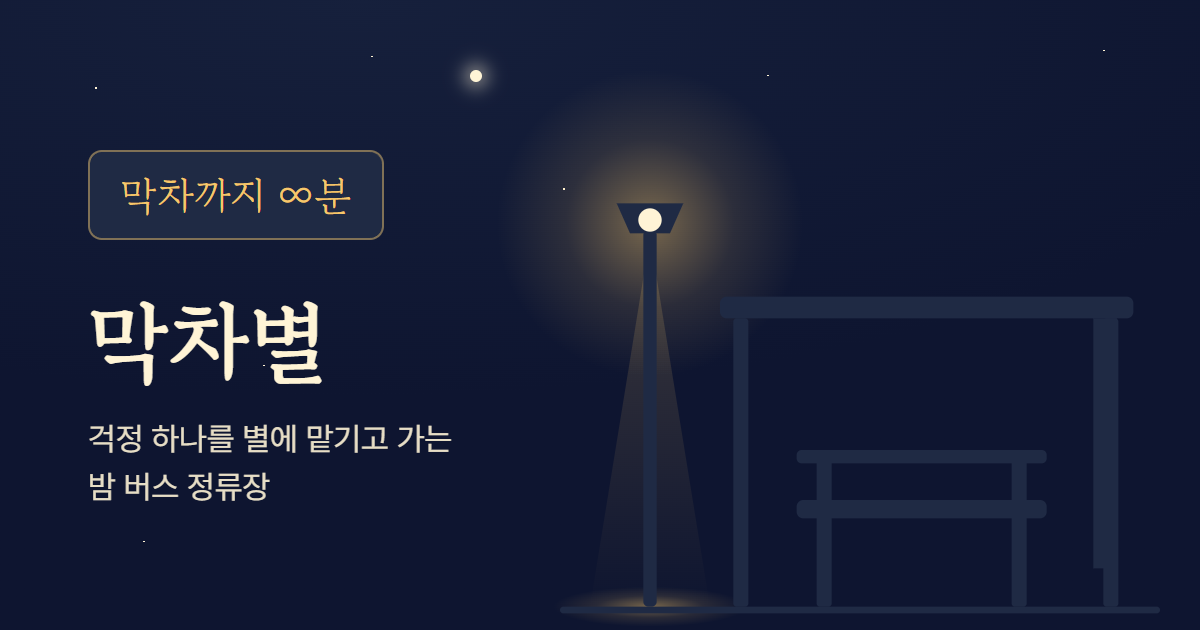
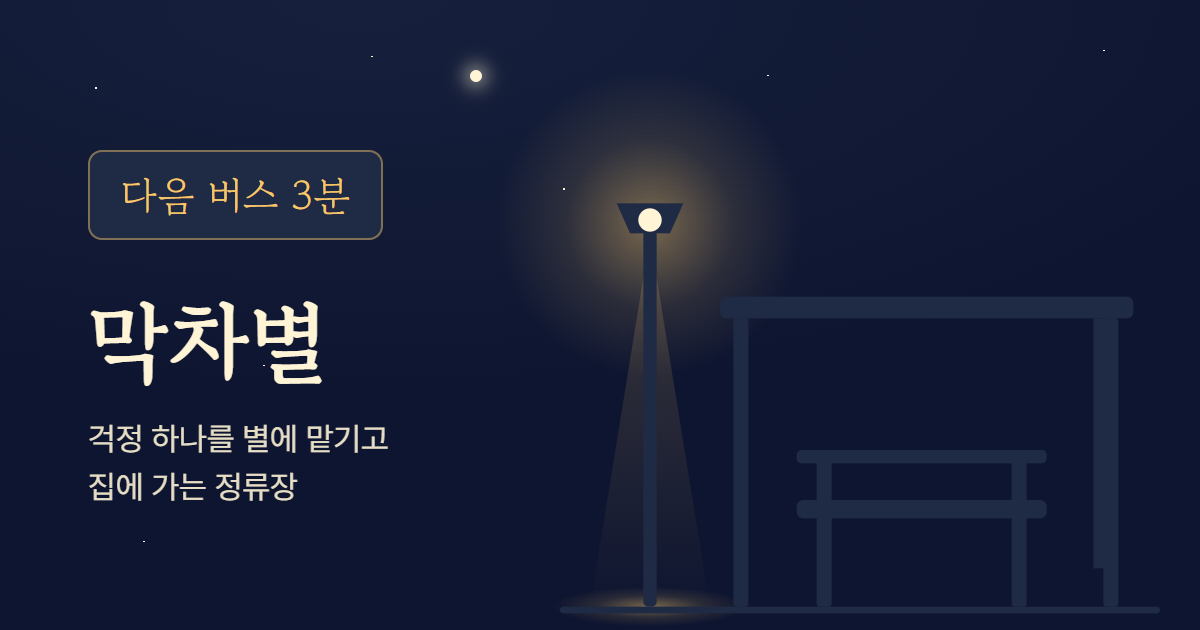
feat: 5분마다 오는 버스와 "다음 버스 N분" 전광판 (T22.4)
기기 시계로 5분마다 버스가 와서 60초 서 있다가 출발함.
전광판은 "막차까지 ∞분" 대신 남은 시간을 알려 줌(2D·3D 공통).

- lib/bus.js(테스트), useBus: 분·상태가 바뀔 때만 다시 그림
- Bus.jsx: 기본 도형 버스가 들어오고·문 열고·떠남, 가릴 땐 옅게
- OG 이미지와 대체 설명을 새 전광판 문구로

Changed region(s): [[0.0925, 0.2714, 0.2775, 0.3317], [0.0617, 0.754, 0.2467, 0.8143], [0.3392, 0.6635, 0.37, 0.7238]]

diff --git a/frontend/src/scenes/three/Bus.jsx b/frontend/src/scenes/three/Bus.jsx
@@ -1,0 +1,134 @@
+import { useEffect, useRef } from "react";
+import { useFrame, useThree } from "@react-three/fiber";
+import { MeshLambertMaterial } from "three";
+
+// 5분마다 오는 버스(T22.4). 시간표는 App(lib/bus.js)이 정해 props로 주고, 여기서는 그 시각에 맞춰
+// 들어오고·서고·떠나는 모습만 그린다. 기본 도형만. 앞은 -x(오른쪽에서 들어와 왼쪽으로 떠남)
+const STOP_X = 4.1; // 앞문이 정류장 앞(x 0.6)에 오는 자리
+const ROAD_Z = 3.15; // 연석(z 1.85) 바로 바깥 차도
+const DRIVE_MS = 6000; // 들어오는 데·떠나는 데 걸리는 시간
+const DRIVE_DIST = 45;
+const DOOR = { open: 1500, closeBefore: 2000 }; // 서고 1.5초 뒤 열리고, 떠나기 2초 전 닫힘
+
+function easeOut(t) {
+  return 1 - (1 - t) ** 3;
+}
+
+// 이 시각에 버스가 어디 있는지. 이번 도착과 바로 전 도착을 둘 다 봐야 떠나는 모습이 끊기지 않는다
+function poseAt(now, arriveAt, dwellMs, intervalMs) {
+  for (const arrival of [arriveAt, arriveAt - intervalMs]) {
+    const t = now - arrival;
+    if (t >= -DRIVE_MS && t < 0) {
+      return {
+        x: STOP_X + DRIVE_DIST * (1 - easeOut((t + DRIVE_MS) / DRIVE_MS)),
+        open: false,
+        moving: true,
+      };
+    }
+    if (t >= 0 && t < dwellMs) {
+      return { x: STOP_X, open: t > DOOR.open && t < dwellMs - DOOR.closeBefore, moving: false };
+    }
+    if (t >= dwellMs && t < dwellMs + DRIVE_MS) {
+      const k = (t - dwellMs) / DRIVE_MS;
+      return { x: STOP_X - DRIVE_DIST * k * k, open: false, moving: true };
+    }
+  }
+  return null; // 지금은 버스가 없다
+}
+
+function makeMaterials() {
+  return {
+    body: new MeshLambertMaterial({ color: "#3f7a63", flatShading: true, transparent: true }),
+    dark: new MeshLambertMaterial({ color: "#1b2233", flatShading: true, transparent: true }),
+    // 안에서 새어 나오는 따뜻한 불빛
+    window: new MeshLambertMaterial({
+      color: "#3a3326",
+      emissive: "#ffd89a",
+      emissiveIntensity: 0.4,
+      transparent: true,
+    }),
+    light: new MeshLambertMaterial({ color: "#fff4d6", emissive: "#fff4d6", transparent: true }),
+  };
+}
+
+// 재질은 버스 하나에 한 벌. 매 프레임 투명도만 바꿔 쓴다(카메라와 캐릭터 사이에 오면 옅게)
+const mats = makeMaterials();
+
+function Box({ position, size, material }) {
+  return (
+    <mesh position={position} material={material}>
+      <boxGeometry args={size} />
+    </mesh>
+  );
+}
+
+export default function Bus({ bus, me }) {
+  const root = useRef(null);
+  const door = useRef(null);
+  const invalidate = useThree((state) => state.invalidate);
+
+  // 시간표 시계: 1초에 한 번 그려서 버스가 올 때를 놓치지 않는다(움직이는 동안은 매 프레임)
+  useEffect(() => {
+    const id = setInterval(invalidate, 1000);
+    return () => clearInterval(id);
+  }, [invalidate]);
+
+  useFrame(({ camera }) => {
+    const pose = poseAt(Date.now(), bus.arriveAt, bus.dwellMs, bus.intervalMs);
+    root.current.visible = Boolean(pose);
+    if (!pose) return;
+    root.current.position.x = pose.x;
+    door.current.visible = !pose.open; // 열리면 문짝이 사라지고 안쪽 불빛이 보인다
+
+    // 카메라가 버스 너머(차도 쪽)에서 정류장 쪽 캐릭터를 보면 버스가 가린다. 그때는 윤곽만 남게
+    // 아주 옅게 하고 창문 불빛도 줄인다(화면 전체가 뿌옇게 덮이지 않게)
+    const blocking = camera.position.z > ROAD_Z - 1.2 && me.current.z < ROAD_Z - 1.2;
+    for (const m of Object.values(mats)) {
+      m.opacity = blocking ? 0.1 : 1;
+      m.depthWrite = !blocking;
+    }
+    mats.window.emissiveIntensity = blocking ? 0.1 : 0.4;
+    if (pose.moving) invalidate();
+  });
+
+  return (
+    <group ref={root} position={[STOP_X, 0, ROAD_Z]} visible={false}>
+      {/* 차체(길이 9m, 폭 2.4m), 아래 검은 띠, 지붕 */}
+      <Box position={[0, 1.7, 0]} size={[9, 2.4, 2.4]} material={mats.body} />
+      <Box position={[0, 0.45, 0]} size={[9, 0.3, 2.3]} material={mats.dark} />
+      {/* 옆 창문: 양쪽에 4장씩 따로 붙여 사이로 차체 색이 보이게. 앞유리 */}
+      {[-1.9, -0.2, 1.5, 3.2].map((x) =>
+        [-1.215, 1.215].map((z) => (
+          <Box
+            key={`${x}${z}`}
+            position={[x, 2.15, z]}
+            size={[1.4, 0.85, 0.03]}
+            material={mats.window}
+          />
+        )),
+      )}
+      <Box position={[-4.51, 2.0, 0]} size={[0.04, 1.3, 2.1]} material={mats.window} />
+      {/* 앞문(정류장 쪽 -z 면). 닫혀 있을 때만 보이는 문짝, 열리면 그 자리의 불빛 */}
+      <Box position={[-3.4, 1.35, -1.215]} size={[1.0, 2.0, 0.03]} material={mats.window} />
+      <mesh ref={door} position={[-3.4, 1.35, -1.23]} material={mats.dark}>
+        <boxGeometry args={[1.0, 2.0, 0.03]} />
+      </mesh>
+      {/* 바퀴 넷 */}
+      {[-3, 3].map((x) =>
+        [-1.2, 1.2].map((z) => (
+          <mesh
+            key={`${x}${z}`}
+            position={[x, 0.45, z]}
+            rotation-x={Math.PI / 2}
+            material={mats.dark}
+          >
+            <cylinderGeometry args={[0.45, 0.45, 0.3, 10]} />
+          </mesh>
+        )),
+      )}
+      {/* 전조등 */}
+      <Box position={[-4.52, 0.85, -0.8]} size={[0.04, 0.2, 0.35]} material={mats.light} />
+      <Box position={[-4.52, 0.85, 0.8]} size={[0.04, 0.2, 0.35]} material={mats.light} />
+    </group>
+  );
+}

diff --git a/frontend/src/scenes/three/Stage3D.jsx b/frontend/src/scenes/three/Stage3D.jsx
@@ -4,6 +4,7 @@ import StopModel from "./StopModel.jsx";
 import StarField from "./StarField.jsx";
 import Walker, { START } from "./Walker.jsx";
 import CameraRig from "./CameraRig.jsx";
+import Bus from "./Bus.jsx";
 import { fovFor } from "./fov.js";
 import "./Stage3D.css";
 
@@ -65,7 +66,7 @@ function fillTo300(stars) {
 }
 
 // 캔버스 안쪽(useFrame·useThree는 캔버스 안에서만 쓸 수 있어서 따로 둔다)
-function World({ up, stars, debug, onSample, onPerf, onLookUp }) {
+function World({ up, stars, bus, debug, onSample, onPerf, onLookUp }) {
   // 내 위치. 걷기(Walker)가 바꾸고 카메라(CameraRig)가 읽는다
   const me = useRef(START.clone());
   return (
@@ -76,6 +77,7 @@ function World({ up, stars, debug, onSample, onPerf, onLookUp }) {
       <StopModel />
       <StarField stars={stars} pitch={SKY_PITCH} />
       <Walker active={!up} me={me} />
+      <Bus bus={bus} me={me} />
       <CameraRig up={up} me={me} onLookUp={onLookUp} />
       <PerfCheck onPerf={onPerf} debug={debug} />
       {debug && <FpsProbe onSample={onSample} />}
@@ -83,7 +85,7 @@ function World({ up, stars, debug, onSample, onPerf, onLookUp }) {
   );
 }
 
-export default function Stage3D({ scene, night, phase, debug, onReady, onPerf, onLookUp }) {
+export default function Stage3D({ scene, night, phase, bus, debug, onReady, onPerf, onLookUp }) {
   const fpsText = useRef(null);
   function showFps(fps, worst) {
     fpsText.current.textContent = `${fps} fps · 가장 긴 프레임 ${worst}ms`;
@@ -109,6 +111,7 @@ export default function Stage3D({ scene, night, phase, debug, onReady, onPerf, o
           up={scene === "sky"}
           // 다른 사람 별은 2D처럼 의식이 끝난 뒤에만. 입력하는 동안 글자를 가리지 않게
           stars={phase === "done" ? stars : NO_STARS}
+          bus={bus}
           debug={debug}
           onSample={showFps}
           onPerf={onPerf}

diff --git a/frontend/src/App.jsx b/frontend/src/App.jsx
@@ -5,6 +5,8 @@ import { nightDate } from "./lib/night.js";
 import { readTapNight, writeTapNight } from "./lib/stamp.js";
 import { visitorId } from "./lib/visitor.js";
 import { useNight } from "./lib/useNight.js";
+import { useBus } from "./lib/useBus.js";
+import { DWELL_MS, INTERVAL_MS } from "./lib/bus.js";
 import { postCardTap, postCrisisEvent, postStar } from "./api/client.js";
 import { isCrisis } from "./safety/crisis.js";
 import HelpCard from "./components/HelpCard.jsx";
@@ -57,6 +59,8 @@ export default function App() {
 
   // 하늘에 올라온 동안만 폴링한다. 정류장에서는 서버를 부를 이유가 없다
   const { night, slow } = useNight(scene === "sky");
+  // 버스 시간표는 기기 시계로. 전광판(2D·3D 공통)과 3D 버스가 같은 값을 본다
+  const bus = useBus();
 
   // 문구는 기기에 남은 기록으로 바로 정한다. 서버 기록은 뒤에서 따라가고 기다리지 않는다 —
   // 잠든 서버 때문에 "삑"이 늦으면 의식이 깨진다(설계 2장 S1 로딩)
@@ -102,6 +106,7 @@ export default function App() {
             scene={scene}
             night={night}
             phase={skyPhase}
+            bus={{ arriveAt: bus.arriveAt, dwellMs: DWELL_MS, intervalMs: INTERVAL_MS }}
             debug={DEBUG}
             onReady={() => setThreeReady(true)}
             onPerf={handlePerf}
@@ -124,6 +129,7 @@ export default function App() {
         />
         <Stop
           inert={scene !== "stop"}
+          bus={bus}
           tapped={tapped}
           onCardTap={handleCardTap}
           onSkyLink={() => setScene("sky")}

diff --git a/frontend/src/lib/bus.test.js b/frontend/src/lib/bus.test.js
@@ -1,0 +1,27 @@
+import { test } from "node:test";
+import assert from "node:assert/strict";
+import { busAt, DWELL_MS, INTERVAL_MS } from "./bus.js";
+
+// 2026-11-09 23:05:00 KST = 14:05:00 UTC
+const ARRIVAL = Date.UTC(2026, 10, 9, 14, 5, 0);
+
+test("한국 시간 매시 5분 배수에 도착해 서 있다", () => {
+  assert.deepEqual(busAt(ARRIVAL), { phase: "stopped", arriveAt: ARRIVAL, minutes: 0 });
+  assert.equal(busAt(ARRIVAL + DWELL_MS - 1).phase, "stopped");
+});
+
+test("60초가 지나면 출발하고, 다음 버스까지 남은 분을 올림으로 센다", () => {
+  const left = busAt(ARRIVAL + DWELL_MS);
+  assert.equal(left.phase, "coming");
+  assert.equal(left.arriveAt, ARRIVAL + INTERVAL_MS);
+  assert.equal(left.minutes, 4);
+  assert.equal(busAt(ARRIVAL + INTERVAL_MS - 1).minutes, 1); // 1밀리초 남아도 "1분"
+  assert.equal(busAt(ARRIVAL + INTERVAL_MS - 60_001).minutes, 2);
+});
+
+test("누가 언제 보든 같은 시각엔 같은 버스", () => {
+  const a = busAt(ARRIVAL + 123_456);
+  const b = busAt(ARRIVAL + 123_456);
+  assert.deepEqual(a, b);
+  assert.equal(busAt(ARRIVAL - 1).arriveAt, ARRIVAL); // 도착 직전은 바로 그 버스를 기다리는 중
+});

diff --git a/frontend/src/lib/bus.js b/frontend/src/lib/bus.js
@@ -1,0 +1,18 @@
+// 버스 시간표(T22.4). 서버 없이 기기 시계로 계산해서 모두가 같은 분에 같은 버스를 본다.
+// 1970년부터 5분 배수 시각에 도착해 60초 서 있다가 출발한다. 한국 시간은 UTC+9(정시 차이)라
+// "매시 0·5·10…분"이 그대로 맞는다.
+// shortcut: 기기 시계가 틀리면 그 사람만 버스가 어긋나 보인다. 2단계(같이 있기)에서 서버 시각으로 보정
+export const INTERVAL_MS = 5 * 60 * 1000;
+export const DWELL_MS = 60 * 1000;
+
+// 지금 버스가 어디쯤인지. arriveAt은 서 있으면 이번 도착 시각, 오는 중이면 다음 도착 시각
+export function busAt(now) {
+  const sinceArrival = now % INTERVAL_MS;
+  const lastArrival = now - sinceArrival;
+  if (sinceArrival < DWELL_MS) {
+    return { phase: "stopped", arriveAt: lastArrival, minutes: 0 };
+  }
+  const next = lastArrival + INTERVAL_MS;
+  // 4분 1초 남았으면 "5분"이 아니라 "다음 버스 5분"이 맞다: 올림
+  return { phase: "coming", arriveAt: next, minutes: Math.ceil((next - now) / 60000) };
+}

diff --git a/frontend/src/scenes/Stop.jsx b/frontend/src/scenes/Stop.jsx
@@ -9,7 +9,7 @@ const FEEDBACK = {
 // S1 정류장. 실루엣은 장식이라 SVG를 통째로 aria-hidden 하고,
 // 읽어야 하는 글자는 모두 HTML로 올린다(대비·글자 크기 조절·스크린리더).
 // 오늘 이미 찍었는지 판단하는 건 App.jsx와 lib/의 몫이고, 여기선 받아서 그리기만 한다.
-export default function Stop({ inert, tapped, onCardTap, onSkyLink }) {
+export default function Stop({ inert, bus, tapped, onCardTap, onSkyLink }) {
   const reader = useRef(null);
   const wasInert = useRef(inert);
 
@@ -23,7 +23,13 @@ export default function Stop({ inert, tapped, onCardTap, onSkyLink }) {
   return (
     <section className="scene scene--stop" inert={inert}>
       <p className="stop__sign">
-        막차까지 <span className="stop__sign-infinity">∞</span>분
+        {bus.phase === "stopped" ? (
+          "버스가 와 있어요"
+        ) : (
+          <>
+            다음 버스 <span className="stop__sign-minutes">{bus.minutes}</span>분
+          </>
+        )}
       </p>
 
       <div className="stop__art">

diff --git a/frontend/src/lib/useBus.js b/frontend/src/lib/useBus.js
@@ -1,0 +1,23 @@
+import { useEffect, useState } from "react";
+import { busAt } from "./bus.js";
+
+// 1초마다 시간표를 보되, 화면은 남은 분이나 상태(오는 중/서 있음)가 바뀔 때만 다시 그린다
+export function useBus() {
+  const [bus, setBus] = useState(() => busAt(Date.now()));
+
+  useEffect(() => {
+    const id = setInterval(() => {
+      const next = busAt(Date.now());
+      setBus((prev) =>
+        prev.phase === next.phase &&
+        prev.minutes === next.minutes &&
+        prev.arriveAt === next.arriveAt
+          ? prev
+          : next,
+      );
+    }, 1000);
+    return () => clearInterval(id);
+  }, []);
+
+  return bus;
+}

diff --git a/frontend/index.html b/frontend/index.html
@@ -22,7 +22,7 @@
     <meta property="og:image" content="%VITE_SITE_URL%/og.png" />
     <meta property="og:image:width" content="1200" />
     <meta property="og:image:height" content="630" />
-    <meta property="og:image:alt" content="밤 버스 정류장과 가로등, '막차까지 ∞분' 전광판" />
+    <meta property="og:image:alt" content="밤 버스 정류장과 가로등, '다음 버스 3분' 전광판" />
     <meta property="og:locale" content="ko_KR" />
     <meta name="twitter:card" content="summary_large_image" />
     <link rel="preconnect" href="https://cdn.jsdelivr.net" />

diff --git a/frontend/src/scenes/Stop.css b/frontend/src/scenes/Stop.css
@@ -18,8 +18,8 @@
   letter-spacing: 0.08em;
 }
 
-/* 2초마다 한 번 살짝 꺼지는 느낌. 모션 줄이기면 global.css가 멈춘다 */
-.stop__sign-infinity {
+/* 숫자가 2초마다 한 번 살짝 꺼지는 전광판 느낌. 모션 줄이기면 global.css가 멈춘다 */
+.stop__sign-minutes {
   display: inline-block;
   animation: sign-flicker 2s ease-in-out infinite;
 }

diff --git a/docs/devlog.md b/docs/devlog.md
@@ -1,6 +1,11 @@
 # 개발 일지
 
 각 작업 끝에 무엇을 왜 했는지 3줄로 남겨요. 최신 항목이 위로 와요.
+## 2026-11-09 · T22.4 버스 시간표·전광판·3D 버스
+
+- `lib/bus.js`(테스트 3개): 기기 시계로 1970년부터 5분 배수에 도착, 60초 정차. 한국 시간은 UTC+9 정시 차이라 "매시 0·5·10…분"이 그대로 맞음. 남은 분은 올림("다음 버스 N분"). `useBus`는 1초마다 보되 분·상태가 바뀔 때만 다시 그림. 전광판은 2D·3D 공통이라 "막차까지 ∞분"이 둘 다에서 사라짐
+- `Bus.jsx`: 도착 6초 전 오른쪽에서 들어와 서고(앞문이 정류장 앞), 1.5초 뒤 문 열림·떠나기 2초 전 닫힘, 6초에 왼쪽으로 떠남. 이번 도착과 바로 전 도착을 둘 다 봐서 떠나는 모습이 끊기지 않음. 움직일 땐 매 프레임, 서 있거나 없을 땐 1초에 한 번만 그림
+- 기본 시점에서 버스가 캐릭터를 가려 화면이 뿌옇게 덮였다 → 가릴 때만 아주 옅게(10%)·창문 불빛도 낮춤. 창문 띠가 큰 베이지 판처럼 보여 양옆 4장씩으로 나눔. 테스트는 브라우저 시계만 도착 9초 전으로 옮겨 확인. OG 이미지·대체 설명도 "다음 버스 3분"으로 다시 찍음
 ## 2026-11-09 · T22.3 캐릭터
 
 - 까만 실루엣을 머리 큰 로우폴리 캐릭터 `Avatar({ color })`로 교체. 다리·원뿔대 몸통·팔·큰 머리·머리카락·눈, 전부 기본 도형이고 키 약 1.2m. 옷 색만 props라 T26 다른 사람 아바타에 색만 바꿔 재사용. 카메라가 보는 높이를 어깨(0.75m)로 낮춤
